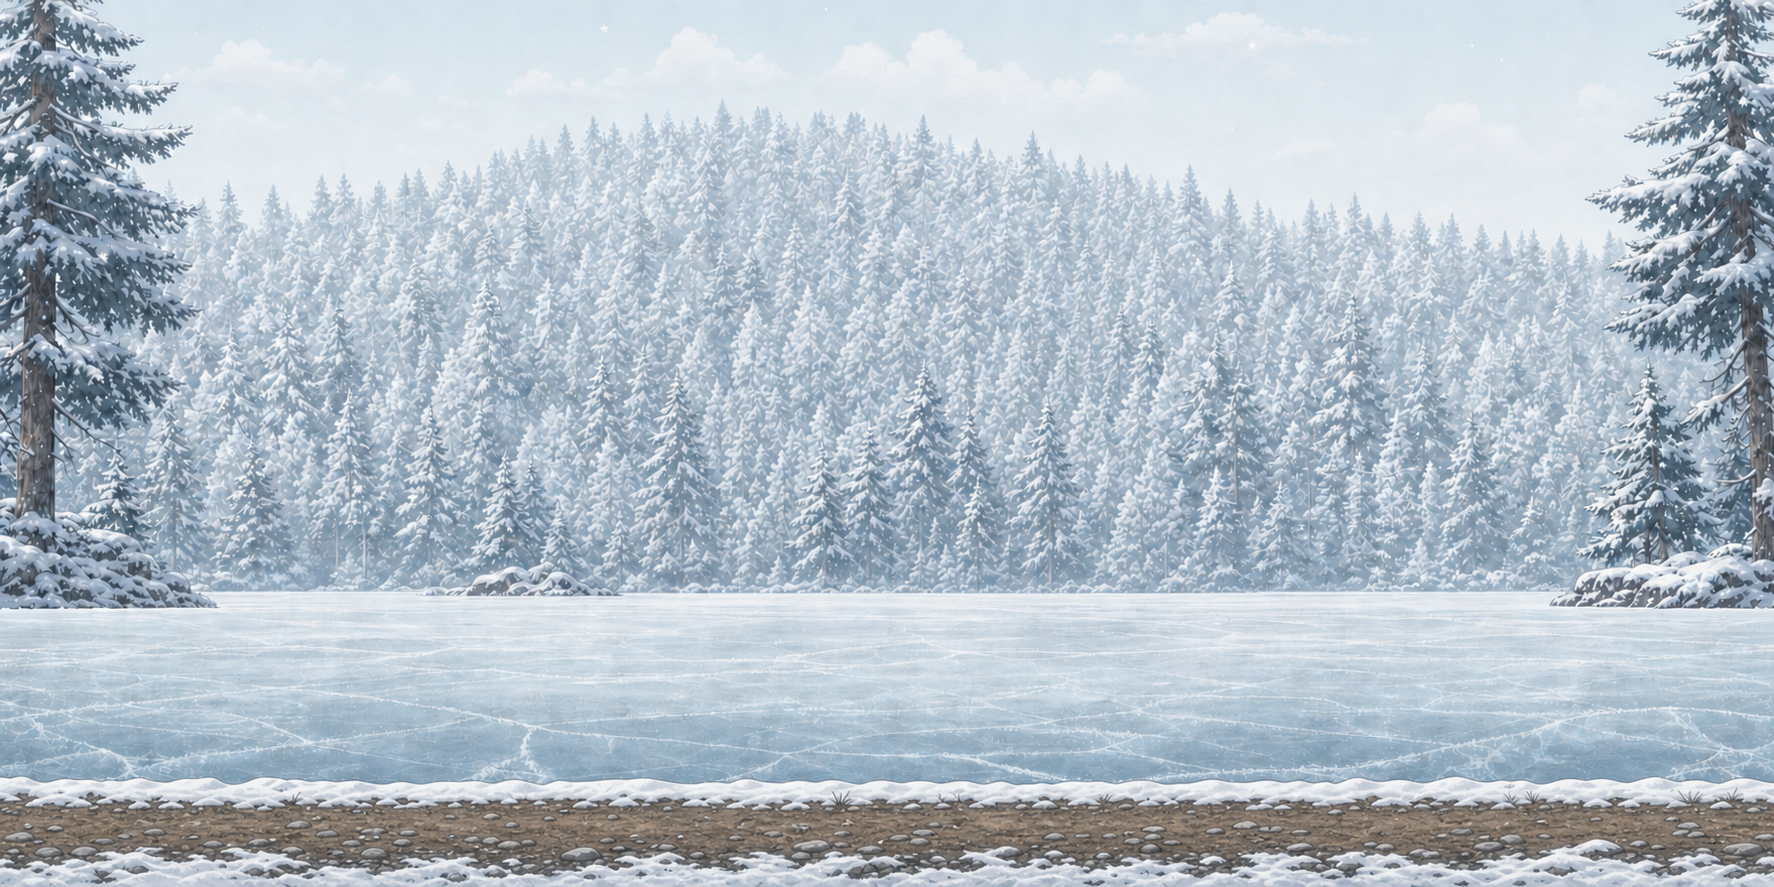
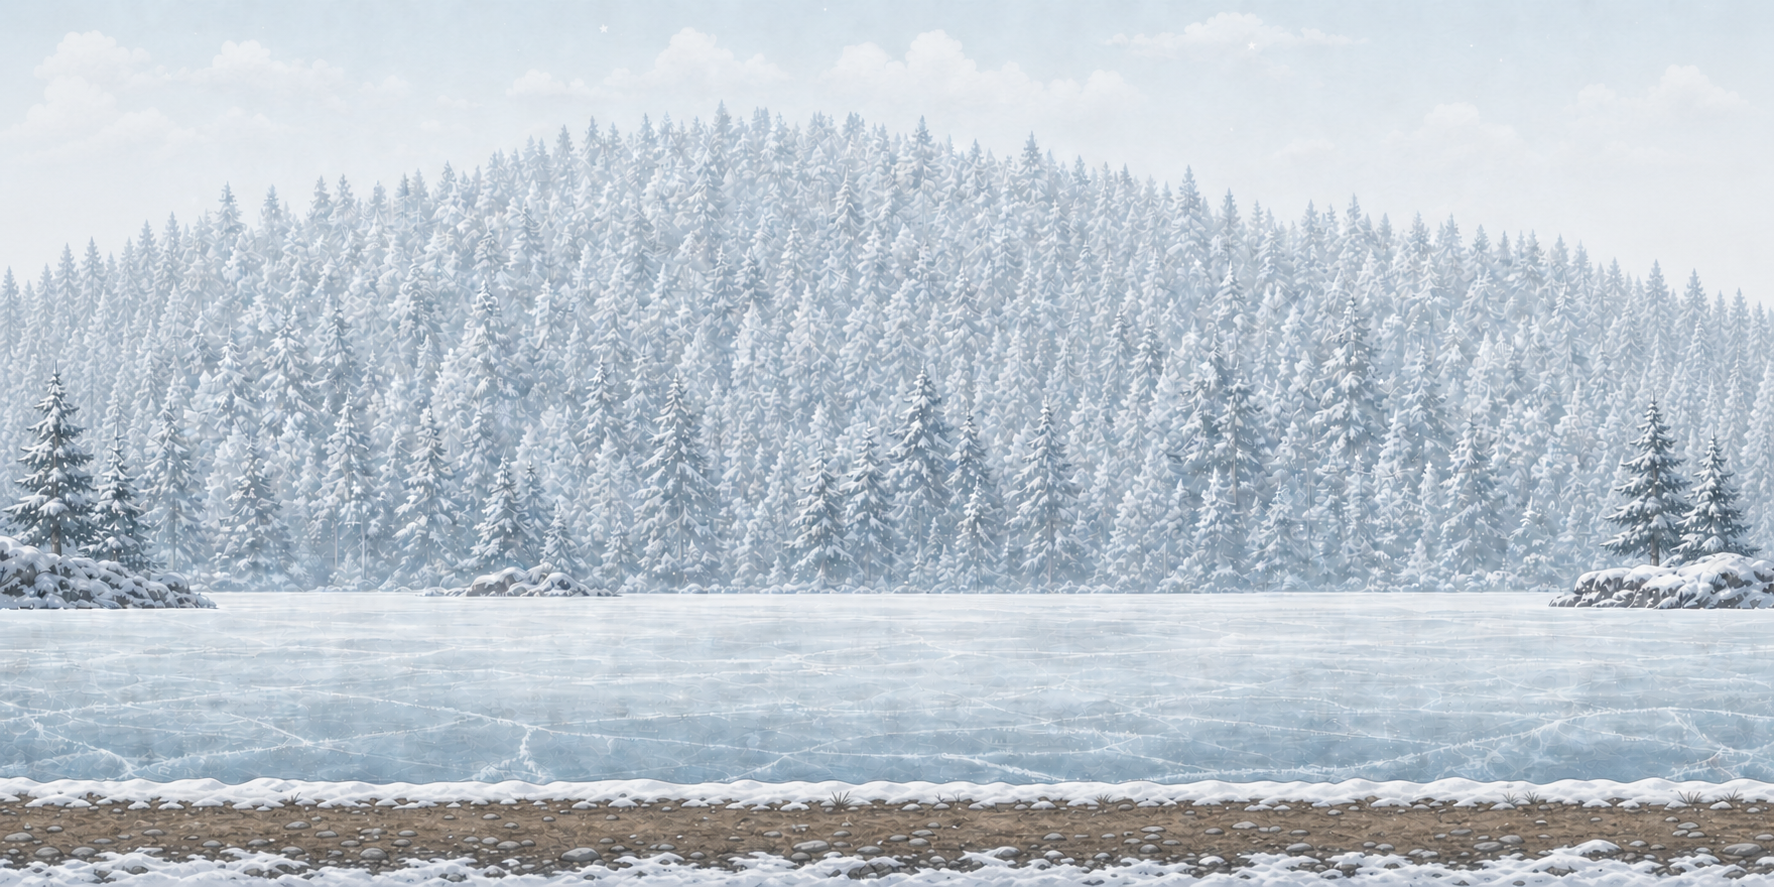
feat: implement character idle sprite sheet animation loop using modulo frame counter

diff --git a/modals/world.class.js b/modals/world.class.js
@@ -11,11 +11,15 @@ class World {
 
     clouds = [
         new Cloud(),
+        new Cloud(),
+        new Cloud(),
     ]
 
     backgroundObjects = [
-        new BackgroundObject('img/5_background/layers/3_third_layer/1.png', 0)
+        new BackgroundObject('img/5_background/winter-location.png', 0),
     ]
+
+    
 
     //  backgroundImg = new Image();
 
@@ -23,7 +27,7 @@ class World {
 
 
 
-    ctx;
+    ctx;  
     canvas;
     constructor(canvas) {
 
@@ -59,14 +63,16 @@ class World {
         // }
 
         const speed = this.character.speed || 5;
-        if (this.arrowKey["ArrowLeft"]) this.character.x -= speed;
-        if (this.arrowKey["ArrowRight"]) this.character.x += speed;
+        if (this.arrowKey["a"]) this.character.x -= speed;
+        if (this.arrowKey["d"]) this.character.x += speed;
+        if (this.arrowKey["w"]) this.character.y -= speed;
+        if (this.arrowKey["s"]) this.character.y += speed;
 
-
+        this.addObjectsToMap(this.backgroundObjects);
         this.addToMap(this.character);
         this.addObjectsToMap(this.enemies);
         this.addObjectsToMap(this.clouds);
-        this.addObjectsToMap(this.backgroundObjects);
+        
 
 
 
@@ -86,9 +92,7 @@ class World {
 
     addObjectsToMap(objects) {
         objects.forEach((object) => {
-            if (object.constructor.name === 'Cloud') {
-                object.animate();
-            }
+
             this.addToMap(object);
         });
     }

diff --git a/modals/character.class.js b/modals/character.class.js
@@ -1,14 +1,47 @@
 class Character extends Movableobject {
-    y = 245;
+    y = 300;
 
-    constructor(){
+    characterImges = [
+        'img/2.character/walk/knight-idle-frame.png',
+        'img/2.character/walk/knight-idle-frame2.png',
+        'img/2.character/walk/knight-idle-frame3.png',
+        'img/2.character/walk/knight-idle-frame4.png',
+        'img/2.character/walk/knight-idle-frame5.png',
+        'img/2.character/walk/knight-idle-frame6.png',
+        'img/2.character/walk/knight-idle-frame7.png',
+        'img/2.character/walk/knight-idle-frame8.png',
+    ];
+
+    currentImage = 0;
+
+
+
+    constructor() {
         super(0).loadImage('img/2.character/walk/knight-idle-frame.png');
 
-        this.speed = 5; 
+        this.speed = 5;
+        this.characterAnimate();
+
     }
-   
+
+    characterAnimate() {
+        setInterval(() => {
+            let path = this.characterImges[this.currentImage];
+            this.img.src=path;
+            this.currentImage++;
+            this.currentImage = this.currentImage % this.characterImges.length;
+
+
+
+        }, 300);
+
+
+    }
+
 
     jump() {
 
     }
+
+
 }

diff --git a/modals/cloud.class.js b/modals/cloud.class.js
@@ -1,24 +1,26 @@
 class Cloud extends Movableobject {
-    y = 20;
+    y = 1;
 
     constructor() {
         super();
-
         this.loadImage('img/5_background/layers/cloud/1.png');
-
-        this.x = Math.random() * 500;
-
+        this.x = Math.random() * 720;
         this.width = 120;
         this.height = 50;
-        this.speed = 0.1;
-
-     
-
-
+        this.animate();
     }
 
-       animate(){
-            this.x -= this.speed;
 
+
+
+animate(){ 
+    setInterval(() => {
+        if(this.x < -this.width){
+            this.x = 720;
         }
+        this.x -= 0.1;
+    }, 1000 / 60);
+}
+
+
 }

diff --git a/modals/background-object.class.js b/modals/background-object.class.js
@@ -1,17 +1,14 @@
 class BackgroundObject extends Movableobject {
     width = 720;
-    height = 120;
-    
+    height = 480;
+
 
     constructor(imagePath, x) {
-        super().loadImage(imagePath);
+        super()
+        this.loadImage(imagePath);
         this.x = x;
-        this.y = 480 - this.height;
-        
+        this.y = 0;
+
     }
 
-    
-    
-
-      
 }

diff --git a/modals/skeleton-enemy.class.js b/modals/skeleton-enemy.class.js
@@ -1,5 +1,5 @@
 class SkeletonEnemy extends Movableobject {
-    y = 245;
+    y = 300;
     
     constructor(startX) {
         
